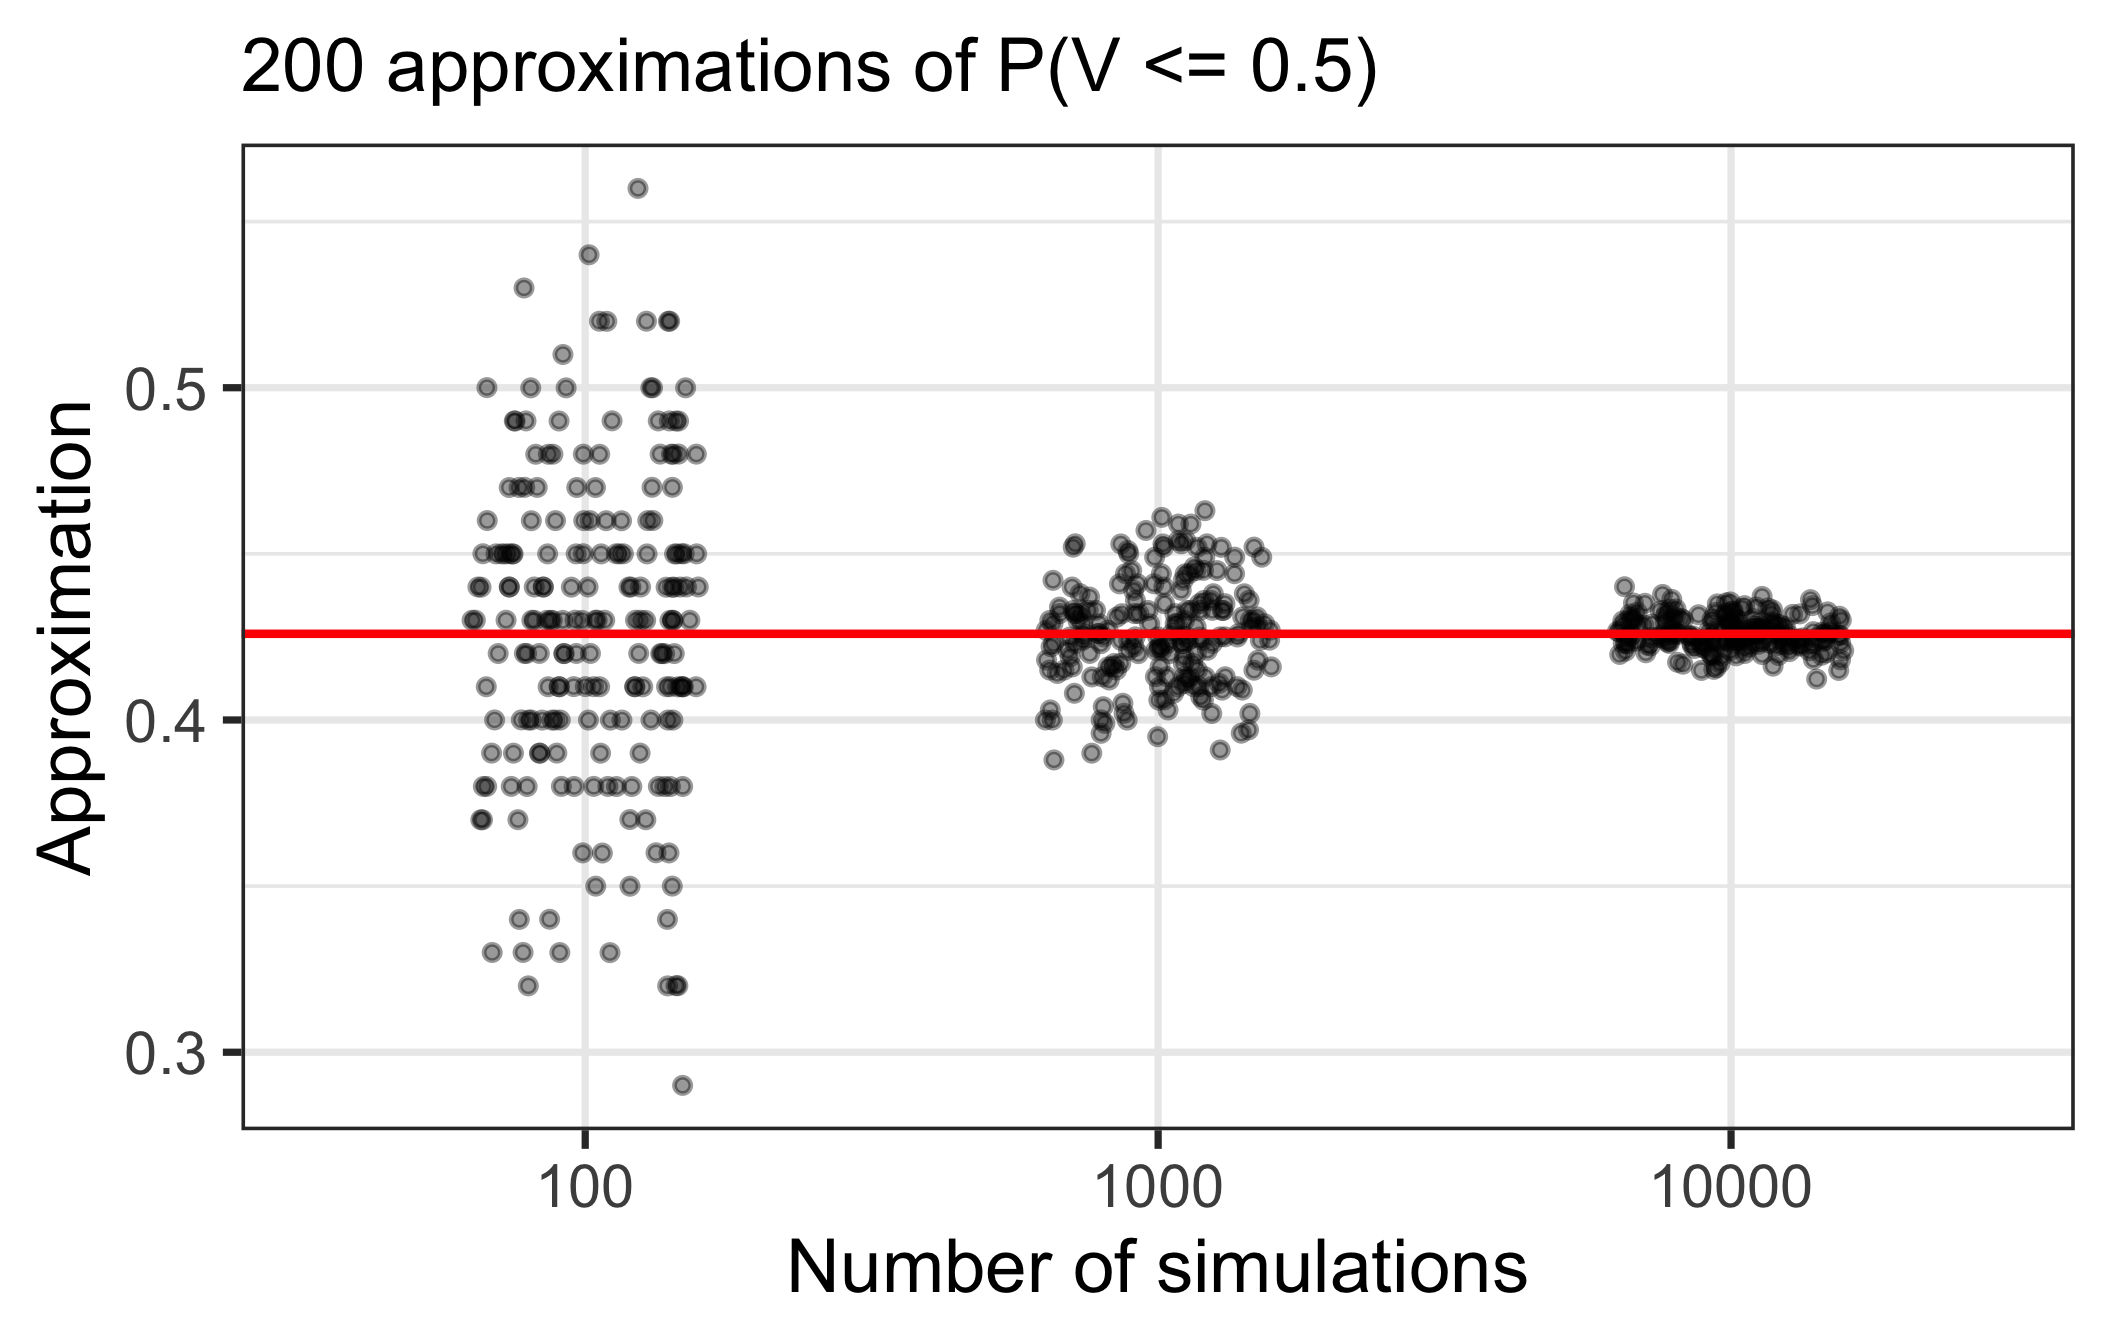
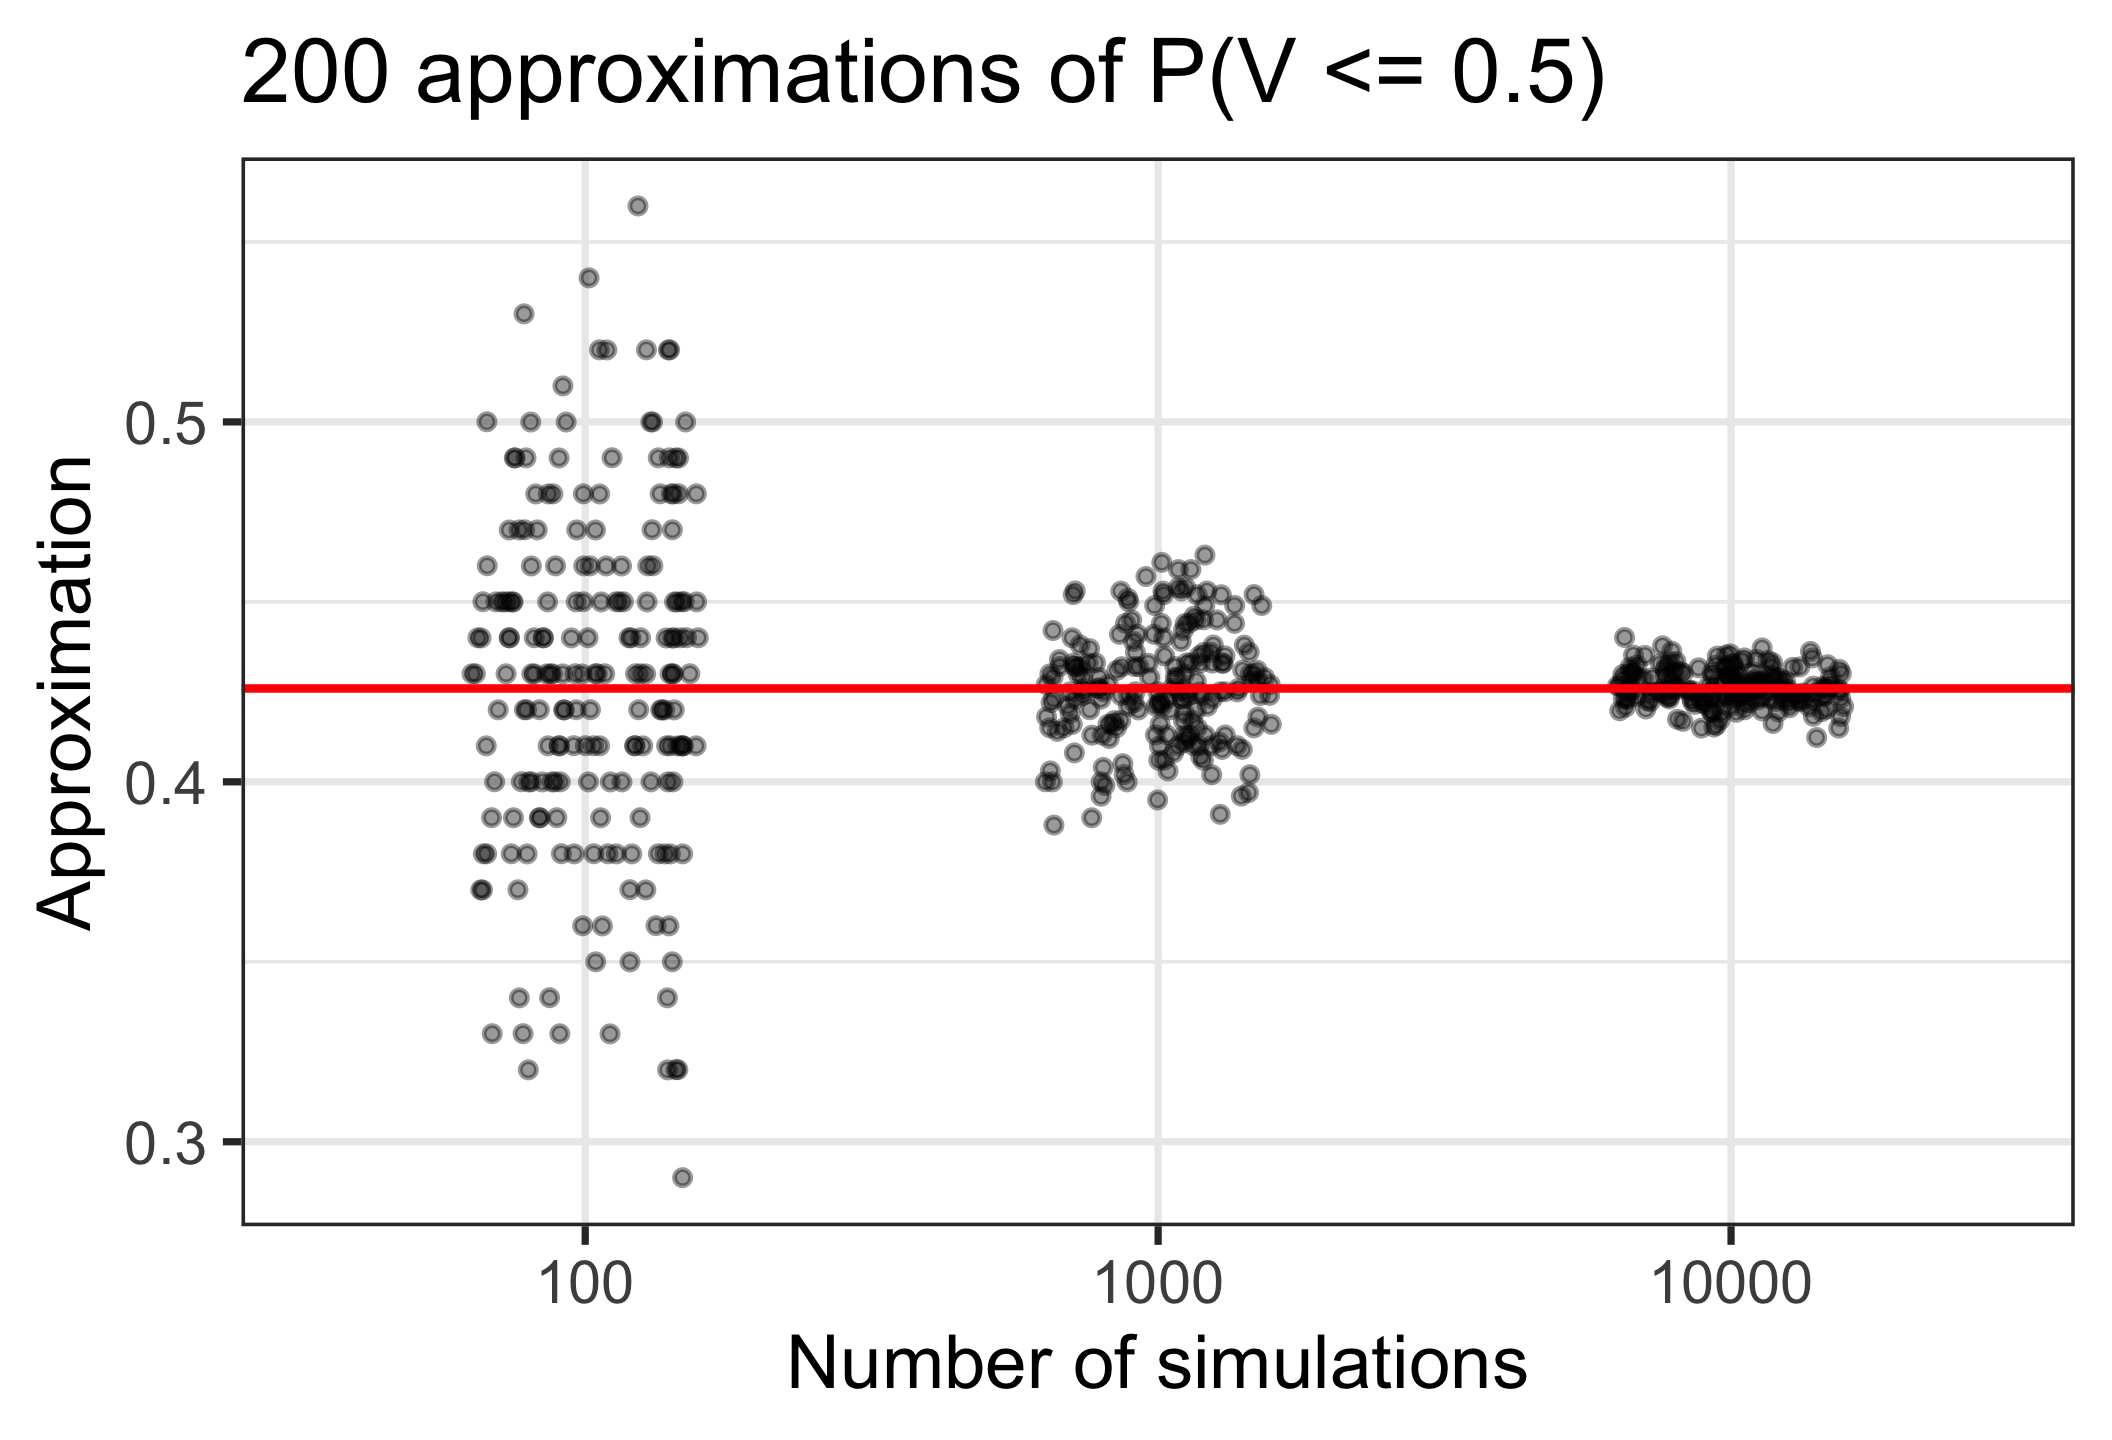
adding key info

diff --git a/docs/lessons/14_Transformations/14_Transformations_key_info.html b/docs/lessons/14_Transformations/14_Transformations_key_info.html
@@ -184,8 +184,9 @@ ul.task-list li input[type="checkbox"] {
 <li>ASA Oregon Chapter meeting tomorrow at 6pm!!
 <ul>
 <li>Chipotle catering - free for students!</li>
-<li>RSVP!!</li>
+<li><a href="https://docs.google.com/forms/d/e/1FAIpQLSdnaPmGyNYIpcNgbMi6ID4EAPCIVI3ghr3u_KOa4eSnBslUHQ/viewform?usp=header">RSVP!!</a></li>
 </ul></li>
+<li><a href="https://ohsu-psu-sph.org/graduate-scholarships/">Apply to Graduate Scholarships</a></li>
 </ul>
 </section>
 <section id="key-dates" class="level2">
